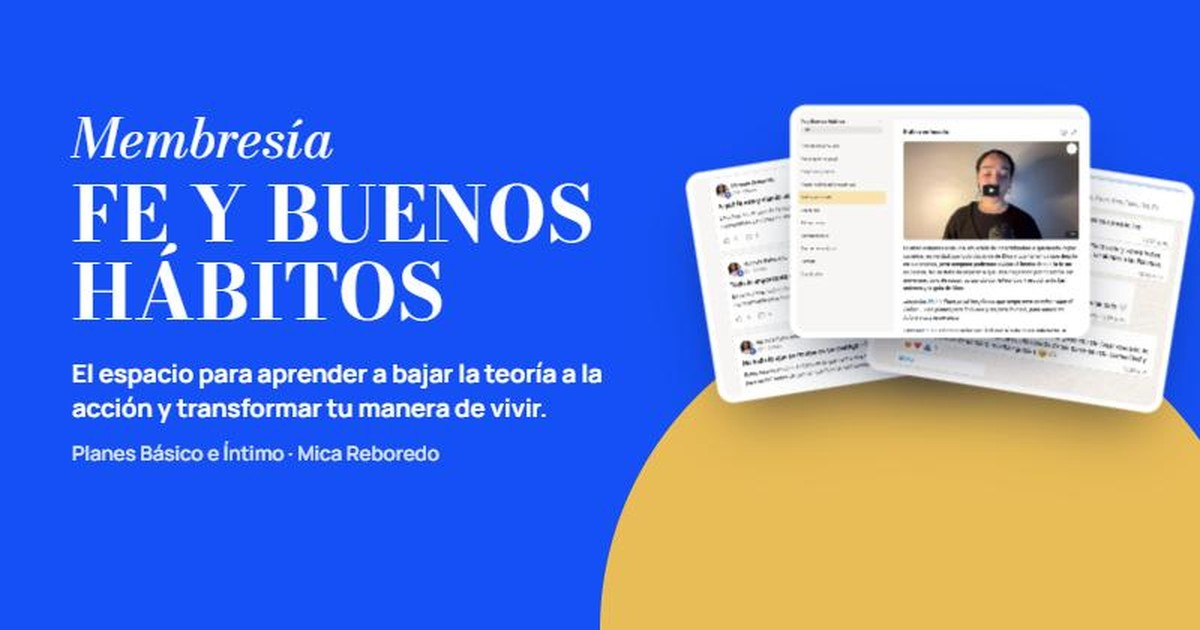
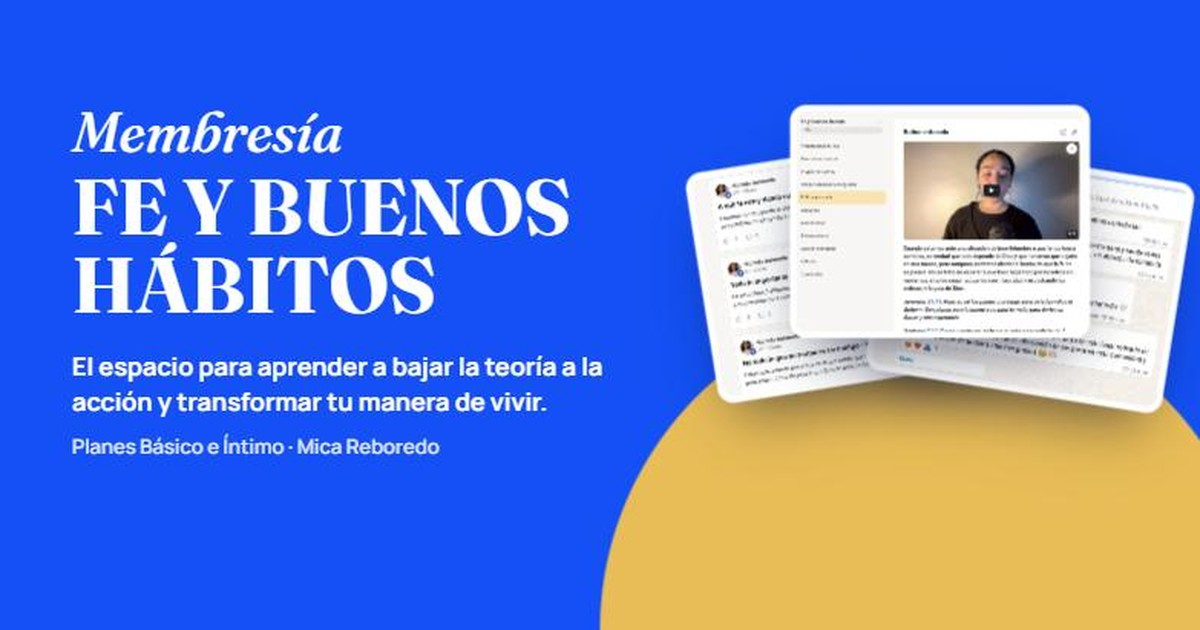
Imagen de vista previa con la fuente nueva
Claude-Session: https://claude.ai/code/session_01XvxBDJD8ARmBV6DLxzArnU

diff --git a/index.html b/index.html
@@ -12,7 +12,7 @@
 <meta property="og:url" content="https://feybuenoshabitos.github.io/">
 <meta property="og:title" content="Membresía Fe y Buenos Hábitos · Mica Reboredo">
 <meta property="og:description" content="El espacio para aprender a bajar la teoría a la acción y transformar tu manera de vivir. Planes Básico e Íntimo.">
-<meta property="og:image" content="https://feybuenoshabitos.github.io/og.jpg?v=2">
+<meta property="og:image" content="https://feybuenoshabitos.github.io/og.jpg?v=3">
 <meta property="og:image:width" content="1200">
 <meta property="og:image:height" content="630">
 <meta name="twitter:card" content="summary_large_image">
